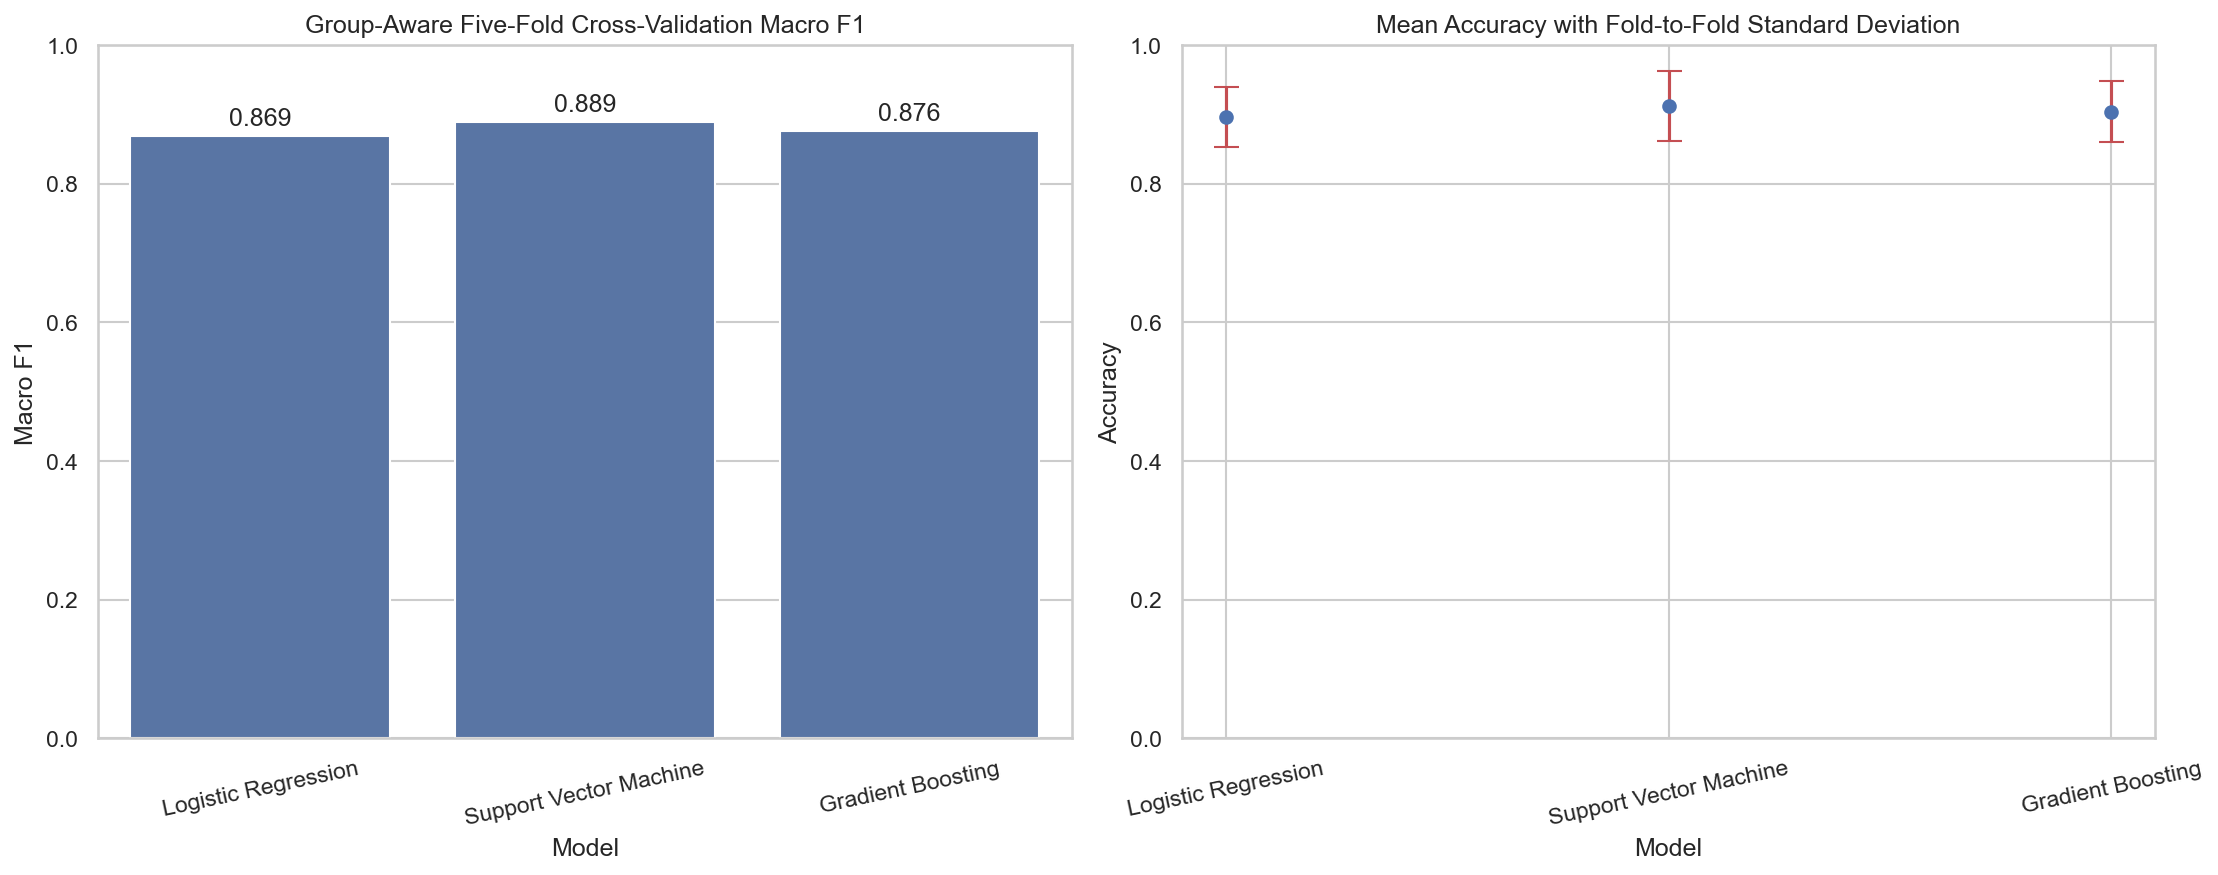
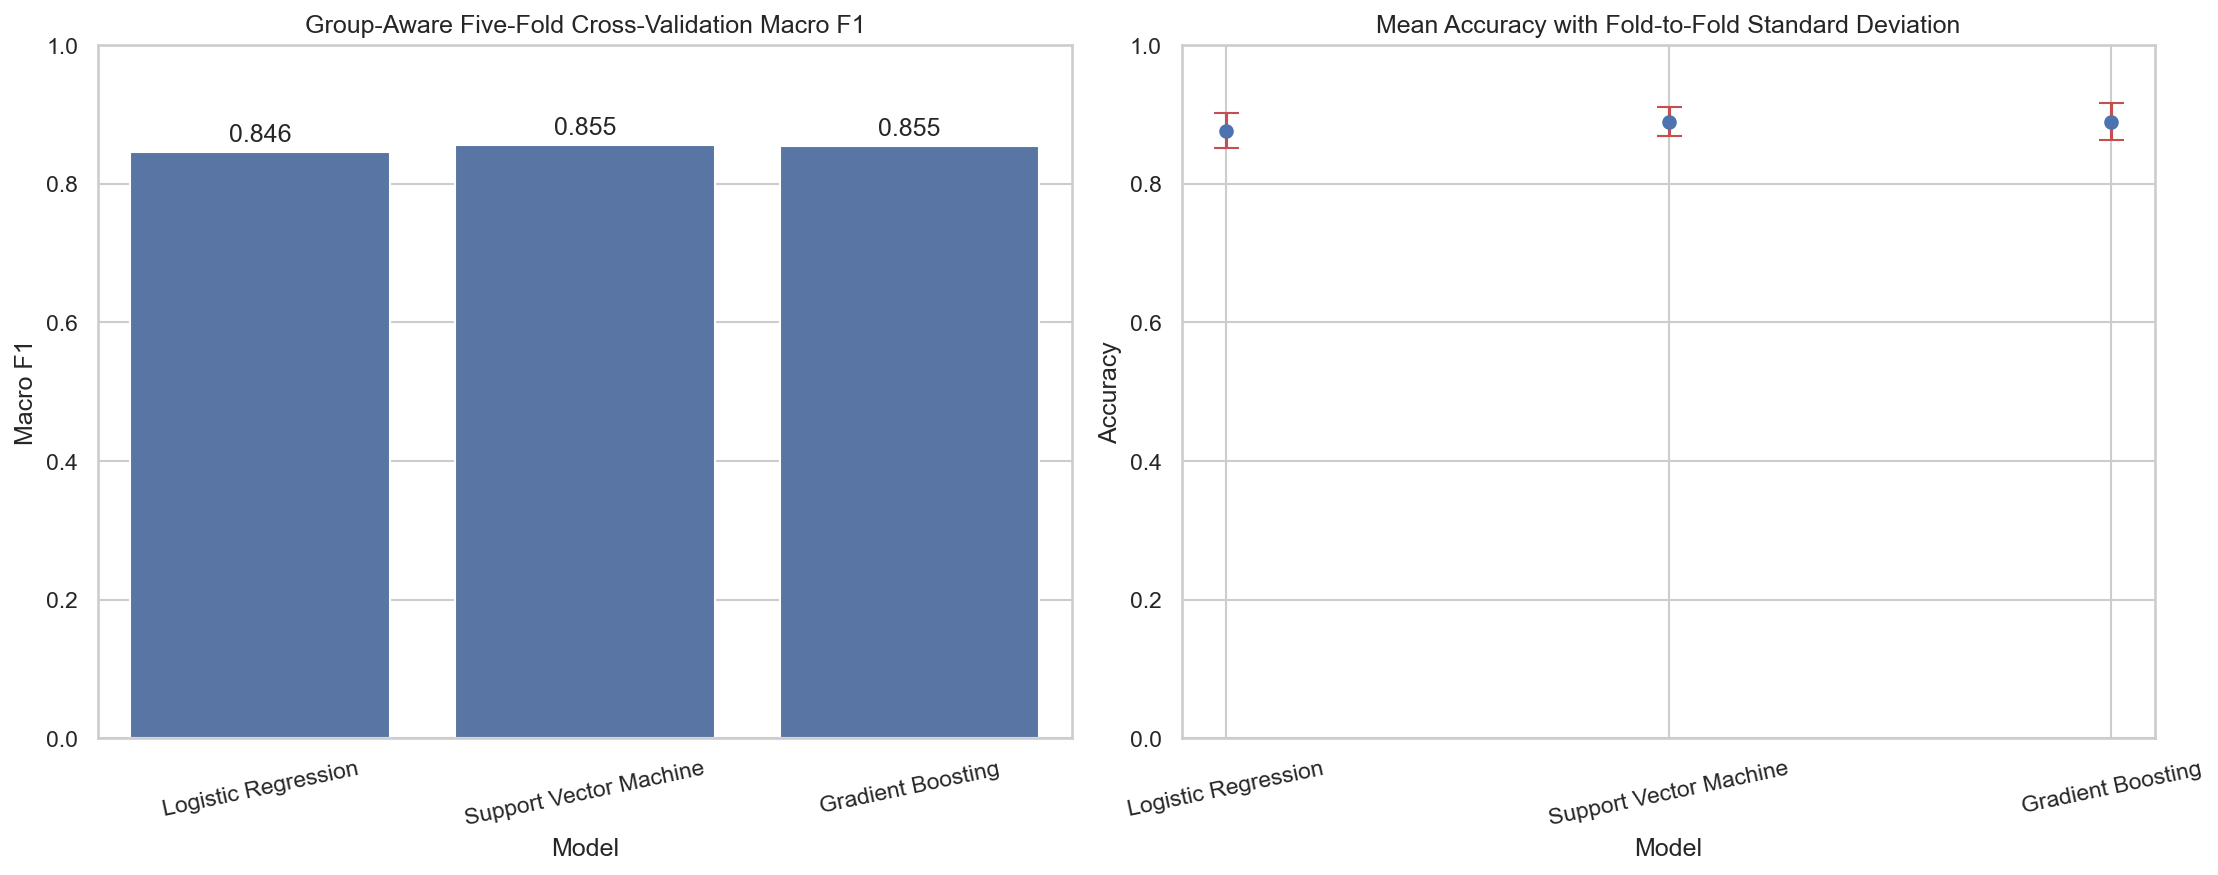
Add group-disjoint holdout evaluation for model selection

diff --git a/src/train.py b/src/train.py
@@ -4,6 +4,7 @@ from __future__ import annotations
 
 import argparse
 import hashlib
+import json
 from pathlib import Path
 
 import joblib
@@ -18,6 +19,7 @@ import pandas as pd
 import seaborn as sns
 from sklearn.ensemble import GradientBoostingClassifier
 from sklearn.linear_model import LogisticRegression
+from sklearn.metrics import accuracy_score, classification_report, confusion_matrix, f1_score
 from sklearn.model_selection import StratifiedGroupKFold, cross_validate
 from sklearn.svm import SVC
 
@@ -32,6 +34,7 @@ PROJECT_ROOT = Path(__file__).resolve().parents[1]
 DEFAULT_DATA_PATH = PROJECT_ROOT / "data" / "Sleep_health_and_lifestyle_dataset.csv"
 DEFAULT_MODEL_PATH = PROJECT_ROOT / "models" / "sleep_disorder_pipeline.joblib"
 DEFAULT_REPORT_PATH = PROJECT_ROOT / "reports" / "model_comparison.png"
+DEFAULT_EVALUATION_PATH = PROJECT_ROOT / "reports" / "holdout_evaluation.json"
 
 
 def load_training_data(path: Path) -> tuple[pd.DataFrame, pd.Series]:
@@ -68,6 +71,22 @@ def make_feature_groups(features: pd.DataFrame) -> pd.Series:
 
     model_features = SleepFeatureEngineer().transform(features)
     return pd.util.hash_pandas_object(model_features, index=False)
+
+
+def split_training_holdout(
+    features: pd.DataFrame, target: pd.Series
+) -> tuple[np.ndarray, np.ndarray]:
+    """Reserve one stratified, group-disjoint fold before model selection."""
+    groups = make_feature_groups(features)
+    splitter = StratifiedGroupKFold(
+        n_splits=5, shuffle=True, random_state=RANDOM_STATE
+    )
+    train_indices, holdout_indices = next(
+        splitter.split(features, target, groups=groups)
+    )
+    if set(groups.iloc[train_indices]) & set(groups.iloc[holdout_indices]):
+        raise RuntimeError("Equivalent profiles crossed the holdout boundary.")
+    return train_indices, holdout_indices
 
 
 def compare_models(
@@ -152,19 +171,38 @@ def train(
     data_path: Path = DEFAULT_DATA_PATH,
     model_path: Path = DEFAULT_MODEL_PATH,
     report_path: Path = DEFAULT_REPORT_PATH,
+    evaluation_path: Path = DEFAULT_EVALUATION_PATH,
 ) -> dict[str, dict[str, float]]:
     features, target = load_training_data(data_path)
-    results, best_model_name = compare_models(features, target)
+    train_indices, holdout_indices = split_training_holdout(features, target)
+    training_features = features.iloc[train_indices]
+    training_target = target.iloc[train_indices]
+    holdout_features = features.iloc[holdout_indices]
+    holdout_target = target.iloc[holdout_indices]
+    results, best_model_name = compare_models(training_features, training_target)
 
     final_pipeline = build_pipeline(candidate_models()[best_model_name])
-    final_pipeline.fit(features, target)
+    final_pipeline.fit(training_features, training_target)
+    holdout_predictions = final_pipeline.predict(holdout_features)
+    labels = sorted(set(target))
+    evaluation = {
+        "selected_model": best_model_name,
+        "training_rows": len(train_indices),
+        "holdout_rows": len(holdout_indices),
+        "labels": labels,
+        "holdout_accuracy": float(accuracy_score(holdout_target, holdout_predictions)),
+        "holdout_macro_f1": float(f1_score(holdout_target, holdout_predictions, labels=labels, average="macro", zero_division=0)),
+        "per_class": classification_report(holdout_target, holdout_predictions, labels=labels, output_dict=True, zero_division=0),
+        "confusion_matrix": confusion_matrix(holdout_target, holdout_predictions, labels=labels).tolist(),
+    }
     final_pipeline.model_name_ = best_model_name
     final_pipeline.cv_results_ = results
     final_pipeline.training_metadata_ = {
         "dataset_sha256": hashlib.sha256(data_path.read_bytes()).hexdigest(),
-        "training_rows": len(features),
-        "unique_feature_groups": int(make_feature_groups(features).nunique()),
-        "validation": "5-fold stratified group cross-validation",
+        "training_rows": len(training_features),
+        "holdout_rows": len(holdout_features),
+        "unique_feature_groups": int(make_feature_groups(training_features).nunique()),
+        "validation": "5-fold stratified group cross-validation on training partition, followed by a group-disjoint holdout",
         "selection_metric": "mean macro F1",
         "joblib_version": joblib.__version__,
         "numpy_version": np.__version__,
@@ -175,6 +213,8 @@ def train(
     model_path.parent.mkdir(parents=True, exist_ok=True)
     joblib.dump(final_pipeline, model_path)
     save_comparison_plot(results, report_path)
+    evaluation_path.parent.mkdir(parents=True, exist_ok=True)
+    evaluation_path.write_text(json.dumps(evaluation, indent=2) + "\n", encoding="utf-8")
 
     print(f"Selected model: {best_model_name}")
     for name, metrics in results.items():
@@ -185,6 +225,8 @@ def train(
         )
     print(f"Saved pipeline to: {model_path}")
     print(f"Saved report to: {report_path}")
+    print(f"Holdout: macro F1={evaluation['holdout_macro_f1']:.3f}, accuracy={evaluation['holdout_accuracy']:.3f} ({len(holdout_indices)} rows)")
+    print(f"Saved holdout evaluation to: {evaluation_path}")
     return results
 
 
@@ -195,9 +237,10 @@ def parse_args() -> argparse.Namespace:
     parser.add_argument("--data", type=Path, default=DEFAULT_DATA_PATH)
     parser.add_argument("--model-output", type=Path, default=DEFAULT_MODEL_PATH)
     parser.add_argument("--report-output", type=Path, default=DEFAULT_REPORT_PATH)
+    parser.add_argument("--evaluation-output", type=Path, default=DEFAULT_EVALUATION_PATH)
     return parser.parse_args()
 
 
 if __name__ == "__main__":
     arguments = parse_args()
-    train(arguments.data, arguments.model_output, arguments.report_output)
+    train(arguments.data, arguments.model_output, arguments.report_output, arguments.evaluation_output)

diff --git a/tests/test_training.py b/tests/test_training.py
@@ -4,10 +4,36 @@ import pandas as pd
 from sklearn.linear_model import LogisticRegression
 
 from src.preprocessing import RAW_FEATURES, build_pipeline
-from src.train import make_feature_groups
+from src.train import make_feature_groups, split_training_holdout
 
 
 class TrainingTests(unittest.TestCase):
+    def test_holdout_keeps_duplicate_profiles_together(self) -> None:
+        base = {
+            "Gender": "Female", "Age": 30, "Occupation": "Engineer",
+            "Sleep Duration": 7.5, "Quality of Sleep": 8,
+            "Physical Activity Level": 45, "Stress Level": 4,
+            "BMI Category": "Normal", "Blood Pressure": "120/80",
+            "Heart Rate": 68, "Daily Steps": 8_000,
+        }
+        rows = []
+        labels = []
+        for index in range(30):
+            label = ["Healthy", "Insomnia", "Sleep Apnea"][index % 3]
+            for duplicate in range(2):
+                rows.append({**base, "Age": 25 + index, "Person ID": len(rows),
+                             "BMI Category": "Normal Weight" if duplicate else "Normal"})
+                labels.append(label)
+        features = pd.DataFrame(rows)
+        target = pd.Series(labels)
+
+        train_indices, holdout_indices = split_training_holdout(features, target)
+        groups = make_feature_groups(features)
+
+        self.assertFalse(set(groups.iloc[train_indices]) & set(groups.iloc[holdout_indices]))
+        self.assertEqual(len(train_indices) + len(holdout_indices), len(features))
+        self.assertEqual(set(target.iloc[holdout_indices]), set(target))
+
     def test_duplicate_features_share_a_validation_group(self) -> None:
         base = {
             "Gender": "Female", "Age": 30, "Occupation": "Engineer",

diff --git a/README.md b/README.md
@@ -10,7 +10,9 @@ Training and prediction therefore apply exactly the same transformations.
 
 ## Results
 
-Models were compared with stratified, group-aware five-fold cross-validation.
+First, one stratified, group-disjoint fold is reserved as a holdout. Models are
+then compared with stratified, group-aware five-fold cross-validation on the
+remaining training rows.
 Rows with identical engineered model features stay in the same fold, preventing
 equivalent patient profiles from appearing in both training and validation.
 Grouping ignores unused columns and treats normalized BMI labels and blood
@@ -20,13 +22,16 @@ three classes.
 
 | Model | Macro F1 | Mean accuracy | Fold accuracy SD |
 | --- | ---: | ---: | ---: |
-| Logistic Regression | 0.869 | 0.896 | 0.043 |
-| **Support Vector Machine** | **0.889** | **0.912** | **0.051** |
-| Gradient Boosting | 0.876 | 0.904 | 0.044 |
+| Logistic Regression | 0.846 | 0.876 | 0.025 |
+| **Support Vector Machine** | **0.855** | **0.889** | **0.020** |
+| Gradient Boosting | 0.855 | 0.889 | 0.026 |
 
-Support Vector Machine achieved the highest mean macro F1 in this comparison
-and was fitted on the full dataset for the saved pipeline. These are internal
-cross-validation estimates, not results from an independent external test set.
+Support Vector Machine achieved the highest unrounded mean macro F1 and was
+fitted on the 299 training rows for the saved pipeline. On the 75 reserved
+holdout rows, it achieved **0.985 macro F1** and **0.987 accuracy**. The holdout
+was not used to choose the model. Full per-class scores and a confusion matrix
+are in [`reports/holdout_evaluation.json`](reports/holdout_evaluation.json).
+These are internal dataset estimates, not results from an external test set.
 
 ![Model comparison](reports/model_comparison.png)
 
@@ -44,7 +49,7 @@ cross-validation estimates, not results from an independent external test set.
   to prevent duplicate-profile leakage, even when raw formatting or unused
   columns differ.
 - Model selection uses stratified, group-aware five-fold cross-validation
-  instead of one train/test split.
+  within a training partition; a group-disjoint holdout evaluates the winner.
 
 ## Repository Structure
 
@@ -55,7 +60,8 @@ sleep-disorder-classification/
 ├── models/
 │   └── sleep_disorder_pipeline.joblib
 ├── reports/
-│   └── model_comparison.png
+│   ├── model_comparison.png
+│   └── holdout_evaluation.json
 ├── src/
 │   ├── train.py
 │   ├── predict.py
@@ -117,9 +123,10 @@ This command compares the three candidate models, then regenerates:
 
 - `models/sleep_disorder_pipeline.joblib`
 - `reports/model_comparison.png`
+- `reports/holdout_evaluation.json`
 
-Optional paths can be supplied with `--data`, `--model-output`, and
-`--report-output`.
+Optional paths can be supplied with `--data`, `--model-output`,
+`--report-output`, and `--evaluation-output`.
 
 ## Predict
 
@@ -220,8 +227,9 @@ Exact tested dependency versions are pinned in `requirements.txt`.
 - Fold standard deviations describe variation among five correlated
   validation folds; they are not population confidence intervals or
   guarantees for future data.
-- Model selection and reporting use the same internal cross-validation, so
-  the comparison can be optimistic and should be confirmed on external data.
+- The holdout is one split of a small synthetic dataset; its high score may
+  vary substantially with a different split and needs confirmation on external
+  data. Cross-validation scores used for selection may still be optimistic.
 
 ## License
 
